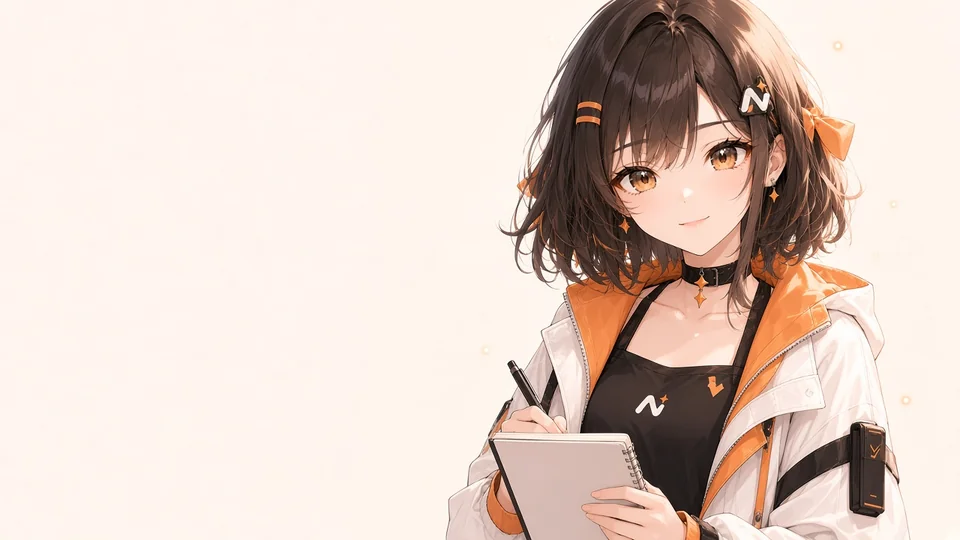
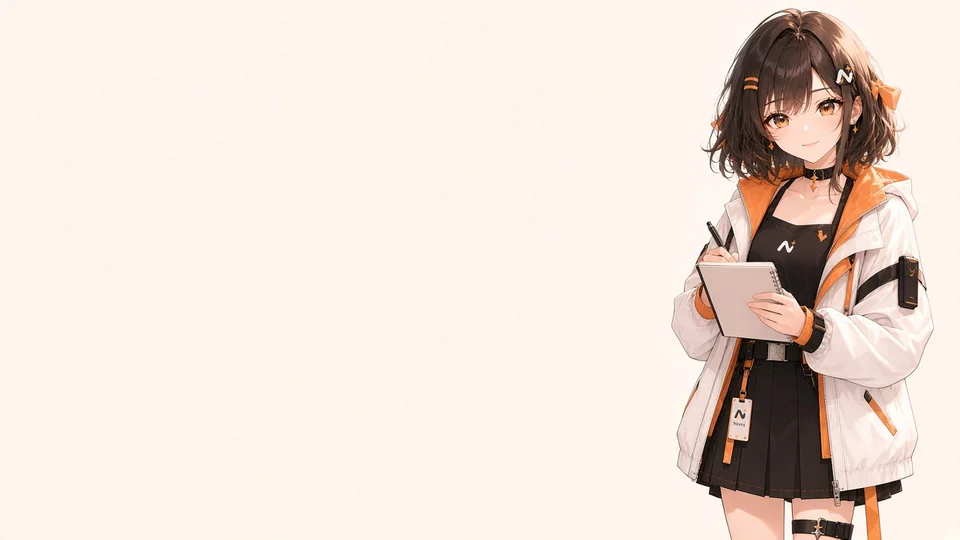
feat(ai-chat): pull back onboarding art framing so each step's gesture and upper body show

diff --git a/packages/ai-chat/src/components/Onboarding/index.module.css b/packages/ai-chat/src/components/Onboarding/index.module.css
@@ -344,7 +344,8 @@
   cursor: default;
 }
 
-/* 背景插画：高度铺满卡片（auto 100%），人物靠右下，始终完整；左侧奶油色渐变保证可读 */
+/* 背景插画：高度铺满卡片（auto 100%），靠右下；配图人物（到腰以下）只在原图右侧 ~33%，
+   所以在卡片右侧 ~40% 内完整露出动作；左侧奶油色渐变到 60% 截止，不洗白人物 */
 .bg {
   position: absolute;
   inset: 0;
@@ -362,9 +363,9 @@
   background: linear-gradient(
     90deg,
     var(--onb-wash) 0%,
-    var(--onb-wash) 46%,
-    rgba(var(--onb-wash-rgb), 0.82) 56%,
-    rgba(var(--onb-wash-rgb), 0) 72%
+    var(--onb-wash) 48%,
+    rgba(var(--onb-wash-rgb), 0.8) 54%,
+    rgba(var(--onb-wash-rgb), 0) 60%
   );
 }
 .cardArt .step {

diff --git a/.changeset/onboarding-art-consistent-face.md b/.changeset/onboarding-art-consistent-face.md
@@ -3,3 +3,5 @@
 ---
 
 新手引导配图（欢迎 / 关于你 / 接入模型，隐私页复用欢迎图）以官方立绘为参考重新绘制，统一 Nomi 的脸型、五官、发型与配饰；各步动作保持不同，人物仍在右侧、左侧留白。
+
+配图改为拉远镜头（到腰以下），人物收在卡片右侧约 40%，左侧渐变到 60% 截止：挥手、本子和笔、发光插头与连线在常规与矮窗口下都完整可见。
